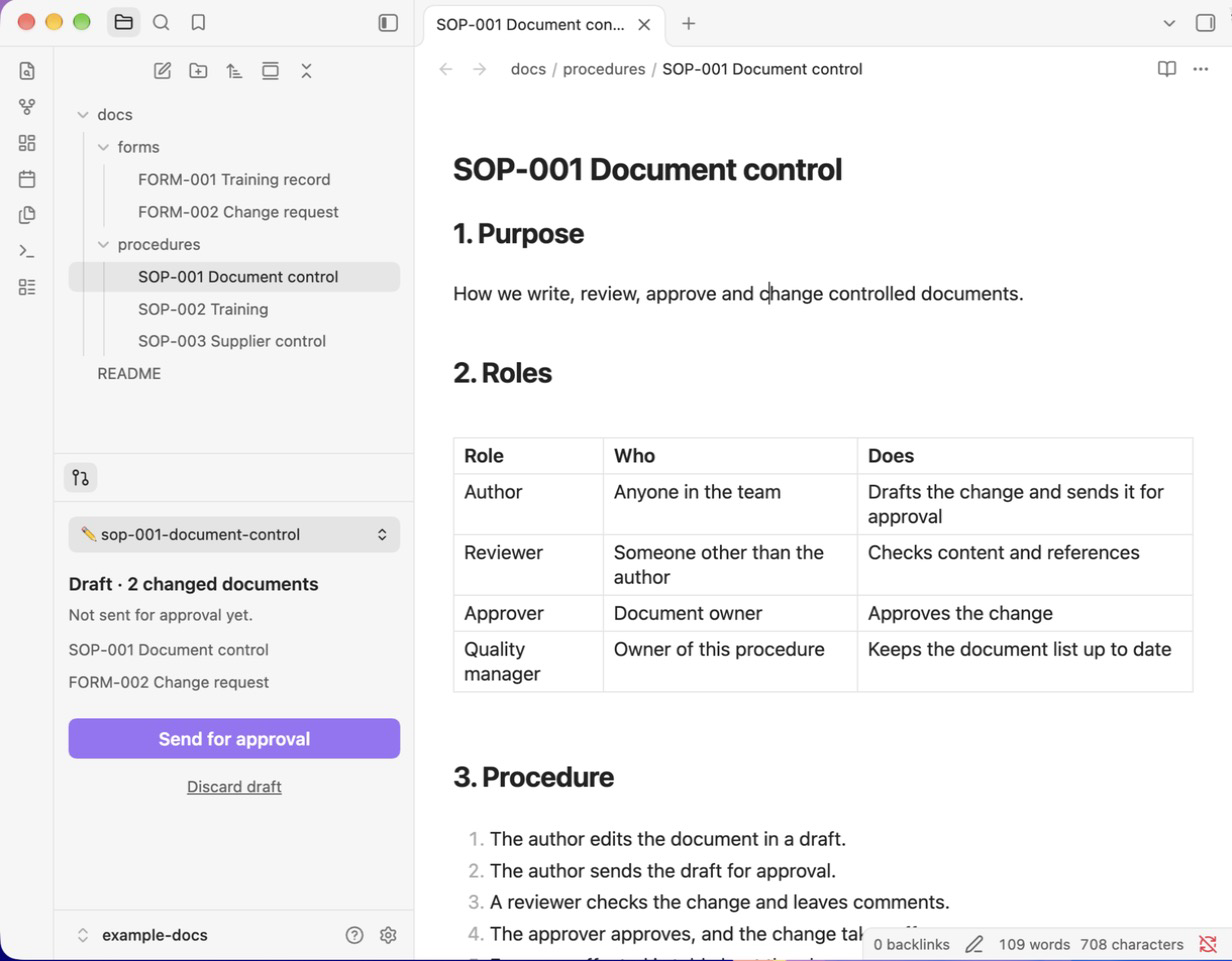
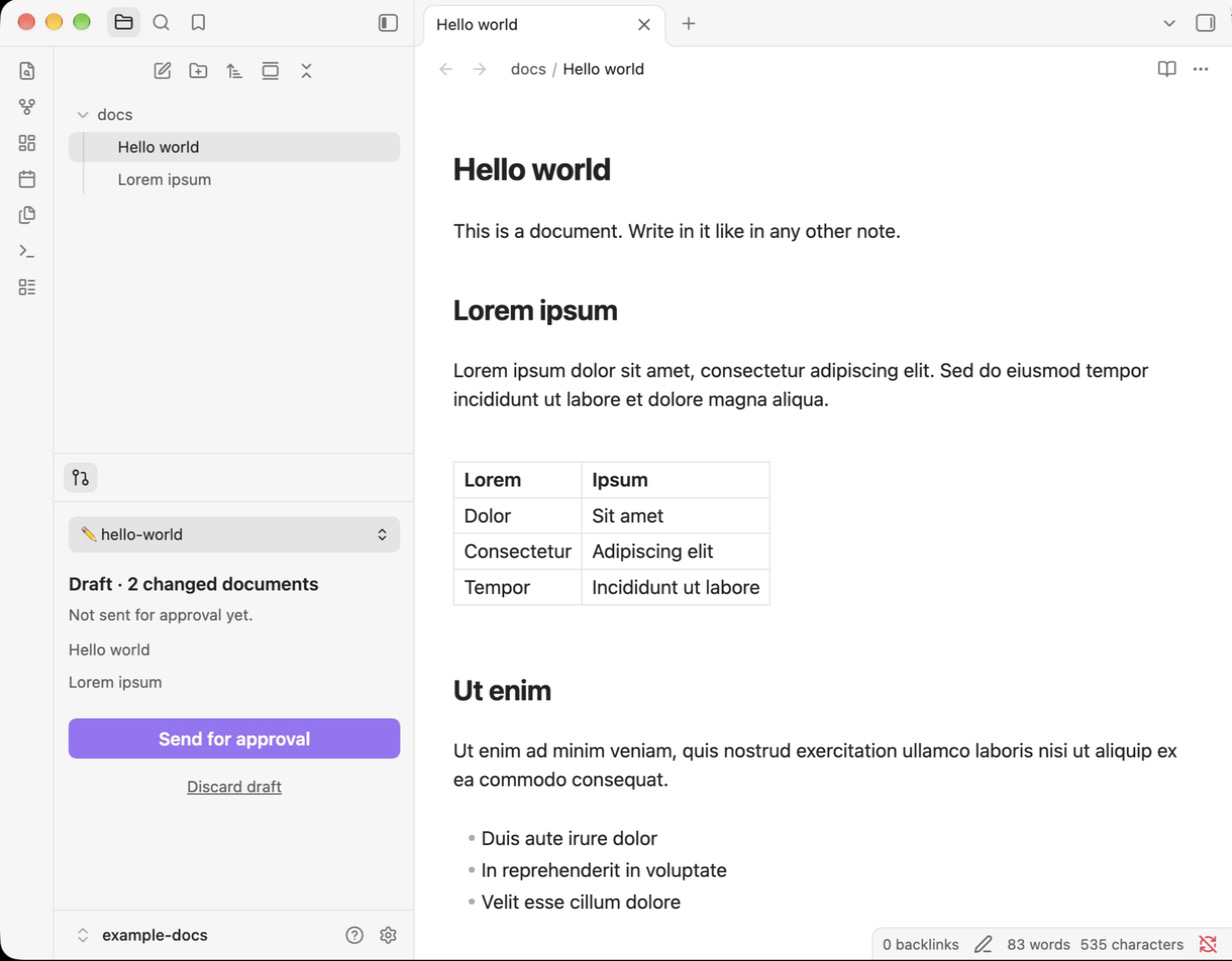
Hämta dokument från panelen, två länkar i Kom igång, release som andra tillägg
- Panelen har ett nytt första steg för ett tomt valv: skriv repot och
  eventuellt mappen, så hämtas dokumenten in i valvet.
- Kom igång är två länkar: installera Obsidian och installera Review Flow.
  Panelen guidar resten.
- Release-workflow som skapar ett utkast till release med main.js,
  manifest.json och styles.css när en versionstagg pushas, och
  npm version uppdaterar manifest.json och versions.json.
- Testworkflow på push och pull request.
- Ny skärmdump med ett Hello world-dokument.

diff --git a/main.js b/main.js
@@ -9,6 +9,7 @@ const obsidian = require('obsidian');
 const { Plugin, ItemView, Notice, Modal, Setting, PluginSettingTab, FileSystemAdapter } = obsidian;
 const { execFile, spawn } = require('child_process');
 const nodePath = require('path');
+const fs = require('fs');
 
 const VIEW_TYPE = 'review-flow';
 const PR_MAX_AGE = 60000;
@@ -61,6 +62,13 @@ const STRINGS = {
     setupWaiting: 'Waiting for you to approve in the browser…',
     setupFailed: 'Sign-in did not finish. Try again.',
     setupDone: 'You are signed in to GitHub.',
+    setupRepoTitle: 'Get the documents',
+    setupRepoText: 'Which GitHub repository are the documents in? The documents are downloaded into this vault.',
+    setupRepoField: 'Repository, for example organisation/documents',
+    setupFolderField: 'Folder to edit, for example qms (optional)',
+    setupRepoButton: 'Get the documents',
+    setupRepoDone: 'The documents are here. Start writing in any of them.',
+    errAlreadyRepo: 'This vault is already a git repository.',
     hintImages: 'With the current Obsidian settings, images you paste are not included in the review.',
     hintImagesManual: 'Choose Settings → Files and links → Default location for new attachments → In subfolder under current folder, and turn off Use [[Wikilinks]].',
     fixImages: 'Fix the setting',
@@ -135,6 +143,13 @@ const STRINGS = {
     setupWaiting: 'Väntar på att du godkänner i webbläsaren…',
     setupFailed: 'Inloggningen blev inte klar. Försök igen.',
     setupDone: 'Du är inloggad på GitHub.',
+    setupRepoTitle: 'Hämta dokumenten',
+    setupRepoText: 'Vilket GitHub-repo ligger dokumenten i? Dokumenten hämtas till det här valvet.',
+    setupRepoField: 'Repo, till exempel organisation/dokument',
+    setupFolderField: 'Mapp som redigeras, till exempel qms (valfritt)',
+    setupRepoButton: 'Hämta dokumenten',
+    setupRepoDone: 'Dokumenten är här. Börja skriva i vilket som helst av dem.',
+    errAlreadyRepo: 'Det här valvet är redan ett git-repo.',
     hintImages: 'Med Obsidians nuvarande inställningar följer bilder du klistrar in inte med till granskningen.',
     hintImagesManual: 'Välj Inställningar → Filer och länkar → Standardplats för nya bilagor → I undermapp under aktuell mapp, och slå av Använd [[wikilänkar]].',
     fixImages: 'Rätta inställningen',
@@ -277,10 +292,11 @@ function makeExec(getCwd, getSettings) {
 // ---------- Git flow (no Obsidian dependencies, tested on its own) ----------
 
 class GitFlow {
-  constructor(exec, getSettings, t) {
+  constructor(exec, getSettings, t, getCwd) {
     this.exec = exec;
     this.getSettings = getSettings;
     this.t = t;
+    this.getCwd = getCwd;
     this.excluded = ['.obsidian', '.trash'];
   }
 
@@ -320,12 +336,13 @@ class GitFlow {
     return branch.slice(this.s.branchPrefix.length).replace(/-\d{6}-\d{4}(\d{2})?$/, '');
   }
 
-  // The first missing piece of the setup: 'git', 'gh' or 'login'; null when everything is in place.
+  // The first missing piece of the setup: 'git', 'gh', 'login' or 'repo'; null when everything is in place.
   async setupStep() {
     for (const [step, check] of [
       ['git', () => this.git('--version')],
       ['gh', () => this.gh('--version')],
       ['login', () => this.gh('auth', 'status', '--hostname', 'github.com')],
+      ['repo', () => this.git('rev-parse', '--is-inside-work-tree')],
     ]) {
       try {
         await check();
@@ -334,6 +351,28 @@ class GitFlow {
       }
     }
     return null;
+  }
+
+  // Turns the vault into a clone of a GitHub repository ("owner/name" or a URL) and returns its default branch.
+  // Files already in the vault stay. If anything fails, the vault is left as it was.
+  async connect(repo) {
+    const input = repo.trim().replace(/\/+$/, '');
+    const url = /^[\w.-]+\/[\w.-]+$/.test(input) ? `https://github.com/${input.replace(/\.git$/, '')}.git` : input;
+    if (/^https:\/\/github\.com\//.test(url)) await this.gh('auth', 'setup-git', '--hostname', 'github.com');
+    const gitDir = nodePath.join(this.getCwd(), '.git');
+    if (fs.existsSync(gitDir)) throw new FlowError('errAlreadyRepo');
+    try {
+      await this.git('init', '-q');
+      await this.git('remote', 'add', 'origin', url);
+      await this.git('fetch', '-q', 'origin');
+      await this.git('remote', 'set-head', 'origin', '--auto');
+      const branch = (await this.git('symbolic-ref', '--short', 'refs/remotes/origin/HEAD')).replace(/^origin\//, '');
+      await this.git('checkout', '-q', '-B', branch, '--track', `origin/${branch}`);
+      return branch;
+    } catch (e) {
+      fs.rmSync(gitDir, { recursive: true, force: true });
+      throw e;
+    }
   }
 
   // Lets git use the GitHub login for https remotes, and gives git a name and a private email
@@ -605,6 +644,10 @@ class ChangesView extends ItemView {
     const t = (k, ...a) => p.t(k, ...a);
     const s = p.state;
     const el = this.contentEl;
+    // Keep the repository form as it is while the user types in it.
+    const key = s && s.setup ? `${s.setup}|${p.busy}|${!!p.login}|${p.login && p.login.code}` : null;
+    if (key && key === this.lastKey) return;
+    this.lastKey = key;
     el.empty();
     el.addClass('review-flow-panel');
     if (!s) return;
@@ -720,6 +763,20 @@ class ChangesView extends ItemView {
         this.button(el, t('setupOpenGithub'), () => p.openLoginPage(), true);
         el.createDiv({ cls: 'review-flow-sub', text: t('setupWaiting') });
       }
+    } else if (step === 'repo') {
+      const form = p.connectForm;
+      el.createDiv({ cls: 'review-flow-heading', text: t('setupRepoTitle') });
+      el.createDiv({ cls: 'review-flow-sub', text: t('setupRepoText') });
+      const field = (key, placeholder) => {
+        const input = el.createEl('input', { type: 'text', cls: 'review-flow-input', attr: { placeholder } });
+        input.value = form[key];
+        input.disabled = p.busy;
+        input.oninput = () => (form[key] = input.value);
+        return input;
+      };
+      field('repo', t('setupRepoField'));
+      field('folder', t('setupFolderField'));
+      this.button(el, p.busy ? t('busy') : t('setupRepoButton'), () => p.connect(), true);
     }
   }
 
@@ -743,8 +800,10 @@ class ReviewFlowPlugin extends Plugin {
     this.flow = new GitFlow(
       makeExec(() => this.vaultPath(), () => this.settings),
       () => this.settings,
-      (k, ...a) => this.t(k, ...a)
+      (k, ...a) => this.t(k, ...a),
+      () => this.vaultPath()
     );
+    this.connectForm = { repo: '', folder: this.settings.folders };
     this.flow.excluded = [this.app.vault.configDir, '.trash'];
 
     this.registerView(VIEW_TYPE, (leaf) => new ChangesView(leaf, this));
@@ -926,6 +985,20 @@ class ReviewFlowPlugin extends Plugin {
       this.refresh(true);
     });
     this.render();
+  }
+
+  // Downloads the documents from the repository given in the panel into this vault.
+  connect() {
+    const { repo, folder } = this.connectForm;
+    if (!repo.trim()) return;
+    return this.run(async () => {
+      const branch = await this.flow.connect(repo);
+      this.settings.baseBranch = branch;
+      this.settings.folders = folder.trim();
+      await this.saveData(this.settings);
+      this.setupChecked = false;
+      new Notice(this.t('setupRepoDone'), 8000);
+    });
   }
 
   openLoginPage() {

diff --git a/test/flow.test.js b/test/flow.test.js
@@ -324,3 +324,27 @@ test('after sign-in, git gets a name and the GitHub noreply email when none is s
     else process.env.GIT_CONFIG_GLOBAL = savedGlobal;
   }
 });
+
+test('a new vault gets the documents from the repository and keeps its own files', async () => {
+  const fresh = path.join(tmp, 'fresh-vault');
+  fs.mkdirSync(path.join(fresh, '.obsidian'), { recursive: true });
+  fs.writeFileSync(path.join(fresh, '.obsidian', 'app.json'), '{}\n');
+  fs.writeFileSync(path.join(fresh, 'Min anteckning.md'), 'egen\n');
+  const s = { ...settings, folders: 'qms', baseBranch: 'unknown' };
+  const f = new GitFlow(makeExec(() => fresh, () => s), () => s, t, () => fresh);
+  assert.strictEqual(await f.setupStep(), 'repo');
+
+  await assert.rejects(f.connect(path.join(tmp, 'missing.git')));
+  assert.ok(!fs.existsSync(path.join(fresh, '.git')), 'a failed attempt leaves the vault as it was');
+
+  assert.strictEqual(await f.connect(remote), 'main');
+  s.baseBranch = 'main';
+  assert.strictEqual(await f.setupStep(), null);
+  assert.ok(fs.existsSync(path.join(fresh, 'qms', 'SOP-001.md')));
+  assert.strictEqual(fs.readFileSync(path.join(fresh, 'Min anteckning.md'), 'utf8'), 'egen\n');
+  assert.ok(fs.existsSync(path.join(fresh, '.obsidian', 'app.json')));
+  const st = await f.state();
+  assert.strictEqual(st.onBase, true);
+  assert.deepStrictEqual(st.changes, []);
+  await assert.rejects(f.connect(remote), /errAlreadyRepo/);
+});

diff --git a/styles.css b/styles.css
@@ -38,6 +38,10 @@
   margin-top: var(--size-4-2);
 }
 
+.review-flow-panel input.review-flow-input {
+  width: 100%;
+}
+
 .review-flow-code {
   font-family: var(--font-monospace);
   font-size: 1.6em;

diff --git a/README.sv.md b/README.sv.md
@@ -27,26 +27,19 @@ Det finns ingen Redigera- eller Spara-knapp:
 - Obsidian sparar medan du skriver. Byte av utkast eller Skicka laddar upp allt.
 - När en begäran har godkänts och slagits ihop försvinner utkastet ur väljaren.
 
-## Krav
-
-- Obsidian på dator (macOS, Windows eller Linux).
-- [git](https://git-scm.com).
-- [GitHub CLI](https://cli.github.com) (`gh`).
-- Valvet är ett git-repo klonat från GitHub (eller en mapp i ett).
-
 ## Installation
 
-Tills Review Flow finns i Obsidians katalog för community-tillägg installerar du det med tillägget BRAT:
+[Installera Review Flow](https://community.obsidian.md/plugins/review-flow) från Obsidians katalog, eller i Obsidian: **Inställningar → Community-tillägg → Bläddra**, sök efter **Review Flow**.
 
-1. I Obsidian: **Inställningar → Community-tillägg**, slå på dem, välj **Bläddra**, sök efter **BRAT**, välj **Installera** och **Aktivera**.
-2. Öppna kommandopaletten (Cmd/Ctrl+P), välj **BRAT: Add a beta plugin for testing**, klistra in `Neurawave/obsidian-review-flow` och klicka på **Add plugin**.
-3. Under **Inställningar → Review Flow**, sätt **Mappar** till mapparna som redigeras, till exempel `qms`.
+Tills det har godkänts där använder du BRAT: installera **BRAT** från katalogen, kör **BRAT: Add a beta plugin for testing** och klistra in `Neurawave/obsidian-review-flow`. Eller kopiera `main.js`, `manifest.json` och `styles.css` från [senaste releasen](https://github.com/Neurawave/obsidian-review-flow/releases) till `<valv>/.obsidian/plugins/review-flow/`.
 
-Eller kopiera `main.js`, `manifest.json` och `styles.css` från [senaste releasen](https://github.com/Neurawave/obsidian-review-flow/releases) till `<valv>/.obsidian/plugins/review-flow/` och slå på tillägget.
+Första gången guidar panelen **Ändringar** dig resten av vägen, ett steg i taget:
 
-Inget behöver läggas till i dokumentrepot. Var och en installerar tillägget i sin egen Obsidian.
+1. Installera git och GitHub CLI, om de saknas.
+2. Logga in på GitHub med en engångskod.
+3. Hämta dokumenten: skriv repot (till exempel `organisation/dokument`) och, om du vill, mappen som redigeras (till exempel `qms`). De hämtas till valvet.
 
-Om inklistrade bilder inte skulle följa med i granskningen (de sparas utanför mapparna, eller länkas som `[[wikilänkar]]` som GitHub inte visar) säger panelen det och erbjuder en knapp som rättar inställningen.
+Inget behöver läggas till i dokumentrepot. Om inklistrade bilder inte skulle följa med i granskningen säger panelen det och erbjuder en knapp som rättar inställningen.
 
 **Det är GitHub som kräver godkännande, inte tillägget.** Skydda den godkända grenen: kräv pull request och minst ett godkännande.
 
@@ -79,6 +72,16 @@ npm test
 ```
 
 Testerna kräver Node.js 18 eller senare.
+
+## Release
+
+Som för andra Obsidian-tillägg är en release en GitHub-release vars tagg är versionen i `manifest.json`, med `main.js`, `manifest.json` och `styles.css` bifogade.
+
+```bash
+npm version patch
+```
+
+Det uppdaterar `manifest.json`, `versions.json` och `package.json` och skapar en commit och en tagg. Pusha båda med `git push --follow-tags`. Release-workflowen kör testerna och skapar ett utkast till release; publicera det på GitHub. Vid första releasen öppnar du också en pull request till [obsidianmd/obsidian-releases](https://github.com/obsidianmd/obsidian-releases) för att lägga till tillägget i katalogen.
 
 ## Licens
 

diff --git a/README.md b/README.md
@@ -27,26 +27,19 @@ There is no Edit or Save button:
 - Obsidian saves as you type. Switching drafts or sending uploads everything.
 - When a request has been approved and merged, its draft disappears from the picker.
 
-## Requirements
-
-- Obsidian on desktop (macOS, Windows or Linux).
-- [git](https://git-scm.com).
-- The [GitHub CLI](https://cli.github.com) (`gh`).
-- The vault is a git repository cloned from GitHub (or a folder inside one).
-
 ## Installation
 
-Until Review Flow is in Obsidian's community directory, install it with the BRAT plugin:
+[Install Review Flow](https://community.obsidian.md/plugins/review-flow) from Obsidian's community directory, or in Obsidian: **Settings → Community plugins → Browse**, search for **Review Flow**.
 
-1. In Obsidian: **Settings → Community plugins**, turn them on, choose **Browse**, find **BRAT**, then **Install** and **Enable**.
-2. Open the command palette (Cmd/Ctrl+P), choose **BRAT: Add a beta plugin for testing**, paste `Neurawave/obsidian-review-flow` and click **Add plugin**.
-3. In **Settings → Review Flow**, set **Folders** to the folders people edit, for example `qms`.
+Until it has been accepted there, use BRAT: install **BRAT** from the community directory, run **BRAT: Add a beta plugin for testing** and paste `Neurawave/obsidian-review-flow`. Or copy `main.js`, `manifest.json` and `styles.css` from the [latest release](https://github.com/Neurawave/obsidian-review-flow/releases) into `<vault>/.obsidian/plugins/review-flow/`.
 
-Or copy `main.js`, `manifest.json` and `styles.css` from the [latest release](https://github.com/Neurawave/obsidian-review-flow/releases) into `<vault>/.obsidian/plugins/review-flow/` and turn the plugin on.
+The first time, the **Changes** panel guides you through the rest, one step at a time:
 
-Nothing needs to be added to the documents repository. Each person installs the plugin in their own Obsidian.
+1. Install git and the GitHub CLI, if they are missing.
+2. Sign in to GitHub with a one-time code.
+3. Get the documents: type the repository (for example `organisation/documents`) and, if you like, the folder to edit (for example `qms`). They are downloaded into the vault.
 
-If pasted images would not be included in the review (they are saved outside the folders, or linked as `[[wikilinks]]` that GitHub does not show), the panel says so and offers a button that fixes the setting.
+Nothing needs to be added to the documents repository. If pasted images would not be included in the review, the panel says so and offers a button that fixes the setting.
 
 **Approval is enforced by GitHub, not by the plugin.** Protect the approved branch: require a pull request and at least one approving review.
 
@@ -79,6 +72,16 @@ npm test
 ```
 
 Node.js 18 or later is needed for the tests.
+
+## Releasing
+
+Like other Obsidian plugins, a release is a GitHub release whose tag equals the version in `manifest.json`, with `main.js`, `manifest.json` and `styles.css` attached.
+
+```bash
+npm version patch
+```
+
+This updates `manifest.json`, `versions.json` and `package.json`, and creates a commit and a tag. Push both with `git push --follow-tags`. The release workflow runs the tests and creates a draft release; publish it on GitHub. For the first release, also open a pull request to [obsidianmd/obsidian-releases](https://github.com/obsidianmd/obsidian-releases) to add the plugin to the community directory.
 
 ## License
 

diff --git a/KOM-IGANG.md b/KOM-IGANG.md
@@ -2,21 +2,9 @@
 
 *[English](GETTING-STARTED.md)*
 
-Det här gör du en gång. Det tar ungefär tio minuter.
+1. [Installera Obsidian](https://obsidian.md/download) och skapa ett valv.
+2. [Installera Review Flow](https://community.obsidian.md/plugins/review-flow).
 
-1. **Installera Obsidian.** Ladda ner från [obsidian.md/download](https://obsidian.md/download) och installera.
-2. **Installera GitHub Desktop.** Ladda ner från [desktop.github.com](https://desktop.github.com), öppna och logga in med ditt GitHub-konto.
-3. **Hämta dokumenten.** I GitHub Desktop: **File → Clone repository**, välj dokumentrepot och klicka på **Clone**.
-4. **Öppna dem i Obsidian.** Välj **Open folder as vault** och välj mappen du just hämtade.
-5. **Installera Review Flow.** I Obsidian: **Settings → Community plugins**, slå på dem, välj **Browse**, sök efter **BRAT**, **Install** och **Enable**. Tryck sedan Cmd/Ctrl+P, välj **BRAT: Add a beta plugin for testing**, klistra in `Neurawave/obsidian-review-flow` och klicka på **Add plugin**.
-6. **Välj mapp.** Under **Settings → Review Flow → Folders**, skriv mappen ni redigerar, till exempel `qms`.
-7. **Följ panelen Ändringar** till vänster. Första gången hjälper den dig att installera GitHub-verktyget och logga in. Du får en kod som du klistrar in på GitHub.
+Sedan guidar panelen **Ändringar** dig resten av vägen: logga in på GitHub och hämta dokumenten.
 
-Klart. Sedan är det bara att skriva och trycka på **Skicka för godkännande**.
-
-## Om något dyker upp
-
-- **Mac:** frågar macOS om att installera *kommandoradsverktyg*, klicka på **Installera** och vänta tills det är klart.
-- **Windows:** installera även [Git](https://git-scm.com/download/win).
-- **Panelen syns inte:** öppna kommandopaletten (Cmd/Ctrl+P) och välj **Review Flow: Visa ändringar**.
-- **Panelen säger att bilder inte följer med:** klicka på **Rätta inställningen**.
+> Review Flow väntar på att godkännas i Obsidians katalog. Tills dess fungerar inte länken i steg 2. Installera i stället via BRAT, se [README](README.sv.md#installation).

diff --git a/GETTING-STARTED.md b/GETTING-STARTED.md
@@ -2,21 +2,9 @@
 
 *[Svenska](KOM-IGANG.md)*
 
-You do this once. It takes about ten minutes.
+1. [Install Obsidian](https://obsidian.md/download) and create a vault.
+2. [Install Review Flow](https://community.obsidian.md/plugins/review-flow).
 
-1. **Install Obsidian.** Download it from [obsidian.md/download](https://obsidian.md/download) and install it.
-2. **Install GitHub Desktop.** Download it from [desktop.github.com](https://desktop.github.com), open it and sign in with your GitHub account.
-3. **Get the documents.** In GitHub Desktop: **File → Clone repository**, pick the documents repository and click **Clone**.
-4. **Open them in Obsidian.** Choose **Open folder as vault** and pick the folder you just cloned.
-5. **Install Review Flow.** In Obsidian: **Settings → Community plugins**, turn them on, choose **Browse**, find **BRAT**, then **Install** and **Enable**. Then press Cmd/Ctrl+P, choose **BRAT: Add a beta plugin for testing**, paste `Neurawave/obsidian-review-flow` and click **Add plugin**.
-6. **Choose the folder.** In **Settings → Review Flow → Folders**, type the folder you edit, for example `qms`.
-7. **Follow the Changes panel** on the left. The first time, it helps you install the GitHub tool and sign in. You get a code to paste on GitHub.
+The **Changes** panel then guides you the rest of the way: sign in to GitHub and get the documents.
 
-Done. From then on, just write and click **Send for approval**.
-
-## If something comes up
-
-- **Mac:** if macOS offers to install the *command line developer tools*, click **Install** and wait until it finishes.
-- **Windows:** also install [Git](https://git-scm.com/download/win).
-- **The panel is not showing:** open the command palette (Cmd/Ctrl+P) and choose **Review Flow: Show changes**.
-- **The panel says images are not included:** click **Fix the setting**.
+> Review Flow is waiting to be accepted into Obsidian's community directory. Until then, the link in step 2 does not work. Install it with BRAT instead, see the [README](README.md#installation).
